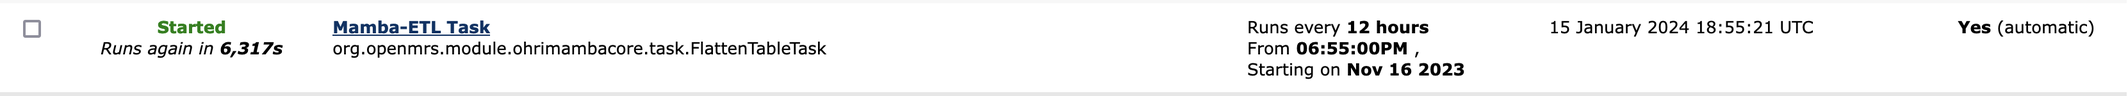
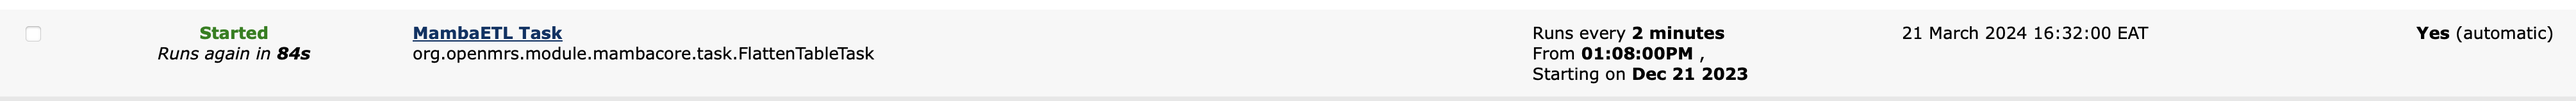
Update db configs and readme plus cleanups

diff --git a/api/src/main/java/org/openmrs/module/mambacore/db/ConnectionPoolManager.java b/api/src/main/java/org/openmrs/module/mambacore/db/ConnectionPoolManager.java
@@ -11,18 +11,35 @@ package org.openmrs.module.mambacore.db;
 
 import org.apache.commons.dbcp2.BasicDataSource;
 import org.openmrs.api.context.Context;
+import org.slf4j.Logger;
+import org.slf4j.LoggerFactory;
+
+import java.util.Properties;
 
 public class ConnectionPoolManager {
+	
+	private static final Logger log = LoggerFactory.getLogger(ConnectionPoolManager.class);
 	
 	private static ConnectionPoolManager instance = null;
 	
 	private static final BasicDataSource dataSource = new BasicDataSource();
 	
 	private ConnectionPoolManager() {
-		dataSource.setDriverClassName(Context.getAdministrationService().getGlobalProperty("mambaetl.analysis.db.driver"));
-		dataSource.setUrl(Context.getAdministrationService().getGlobalProperty("mambaetl.analysis.db.url"));
-		dataSource.setUsername(Context.getAdministrationService().getGlobalProperty("mambaetl.analysis.db.username"));
-		dataSource.setPassword(Context.getAdministrationService().getGlobalProperty("mambaetl.analysis.db.password"));
+		Properties omrsRuntimeProperties = Context.getRuntimeProperties();
+		
+		System.out.println("mambaetl.analysis.db.driver  : "
+		        + omrsRuntimeProperties.getProperty("mambaetl.analysis.db.driver"));
+		System.out
+		        .println("mambaetl.analysis.db.url     : " + omrsRuntimeProperties.getProperty("mambaetl.analysis.db.url"));
+		System.out.println("mambaetl.analysis.db.username: "
+		        + omrsRuntimeProperties.getProperty("mambaetl.analysis.db.username"));
+		System.out.println("mambaetl.analysis.db.password: "
+		        + omrsRuntimeProperties.getProperty("mambaetl.analysis.db.password"));
+		
+		dataSource.setDriverClassName(omrsRuntimeProperties.getProperty("mambaetl.analysis.db.driver"));
+		dataSource.setUrl(omrsRuntimeProperties.getProperty("mambaetl.analysis.db.url"));
+		dataSource.setUsername(omrsRuntimeProperties.getProperty("mambaetl.analysis.db.username"));
+		dataSource.setPassword(omrsRuntimeProperties.getProperty("mambaetl.analysis.db.password"));
 		dataSource.setInitialSize(4); // Initial number of connections
 		dataSource.setMaxTotal(20); // Maximum number of connections
 	}

diff --git a/api/src/test/java/org/openmrs/module/mambacore/api/model/MambaReportItemColumnTest.java b/api/src/test/java/org/openmrs/module/mambacore/api/model/MambaReportItemColumnTest.java
@@ -1,9 +1,19 @@
+/**
+ * This Source Code Form is subject to the terms of the Mozilla Public License,
+ * v. 2.0. If a copy of the MPL was not distributed with this file, You can
+ * obtain one at http://mozilla.org/MPL/2.0/. OpenMRS is also distributed under
+ * the terms of the Healthcare Disclaimer located at http://openmrs.org/license.
+ * <p>
+ * Copyright (C) OpenMRS Inc. OpenMRS is a registered trademark and the OpenMRS
+ * graphic logo is a trademark of OpenMRS Inc.
+ */
 package org.openmrs.module.mambacore.api.model;
 
 import org.junit.Before;
 import org.junit.Test;
 
-import static org.junit.Assert.*;
+import static org.junit.Assert.assertEquals;
+import static org.junit.Assert.assertNull;
 
 public class MambaReportItemColumnTest {
 

diff --git a/omod/src/main/java/org/openmrs/module/mambacore/web/resource/MambaReportResource.java b/omod/src/main/java/org/openmrs/module/mambacore/web/resource/MambaReportResource.java
@@ -30,7 +30,7 @@ import java.util.List;
 
 @Resource(name = RestConstants.VERSION_1 + MambaReportRestController.MAMBA_REPORT_REST_NAMESPACE + "/report",
         supportedClass = MambaReportItem.class,
-        supportedOpenmrsVersions = {"2.0 - 2.*"})
+        supportedOpenmrsVersions = {"2.0 - 9.*"})
 public class MambaReportResource implements Searchable {
 
     private static final Logger log = LoggerFactory.getLogger(MambaReportResource.class);

diff --git a/api/src/test/java/org/openmrs/module/mambacore/api/parameter/MambaReportCriteriaTest.java b/api/src/test/java/org/openmrs/module/mambacore/api/parameter/MambaReportCriteriaTest.java
@@ -15,7 +15,11 @@ import org.junit.Before;
 import java.util.Arrays;
 import java.util.List;
 
-import static org.junit.Assert.*;
+import static org.junit.Assert.assertEquals;
+import static org.junit.Assert.assertNotNull;
+import static org.junit.Assert.assertTrue;
+import static org.junit.Assert.assertNull;
+import static org.junit.Assert.assertFalse;
 
 public class MambaReportCriteriaTest {
 

diff --git a/api/src/test/java/org/openmrs/module/mambacore/api/model/MambaReportItemTest.java b/api/src/test/java/org/openmrs/module/mambacore/api/model/MambaReportItemTest.java
@@ -15,7 +15,10 @@ import org.junit.Test;
 import java.util.ArrayList;
 import java.util.List;
 
-import static org.junit.Assert.*;
+import static org.junit.Assert.assertEquals;
+import static org.junit.Assert.assertNotNull;
+import static org.junit.Assert.assertTrue;
+
 
 public class MambaReportItemTest {
 

diff --git a/api/src/test/java/org/openmrs/module/mambacore/api/model/MambaReportItemMetadataTest.java b/api/src/test/java/org/openmrs/module/mambacore/api/model/MambaReportItemMetadataTest.java
@@ -12,7 +12,8 @@ package org.openmrs.module.mambacore.api.model;
 import org.junit.Before;
 import org.junit.Test;
 
-import static org.junit.Assert.*;
+import static org.junit.Assert.assertEquals;
+import static org.junit.Assert.assertNull;
 
 public class MambaReportItemMetadataTest {
 

diff --git a/api/src/test/java/org/openmrs/module/mambacore/api/MambaReportsConstantsTest.java b/api/src/test/java/org/openmrs/module/mambacore/api/MambaReportsConstantsTest.java
@@ -11,7 +11,8 @@ package org.openmrs.module.mambacore.api;
 
 import org.junit.Test;
 
-import static org.junit.Assert.*;
+import static org.junit.Assert.assertEquals;
+import static org.junit.Assert.assertNotNull;
 
 public class MambaReportsConstantsTest {
 

diff --git a/README.md b/README.md
@@ -121,38 +121,20 @@ For Extra analysis on the data, one can opt to create dimension and fact tables 
 
 <span style='color: red;'>Step 7:</span>  
 
-`/omod/../resources/config.xml`  
+`.../<server_root_dir>/openmrs-runtime.properties`  
 
-Add the MambaETL database configuration default properties to the config xml file.  
-These properties can also be added via the legacy admin UI as global properties.  
+Add the MambaETL database configuration properties to your OpenMRs runtime properties file.  
+The property file name is: `openmrs-runtime.properties` and can be found under your server root folder.  
 
-MambaETL depends on this database configuration to connect to the **ETL** database for processing.  
+MambaETL depends on this database configuration details to connect to the **ETL** database for processing.  
 Note: the **ETL** database name is configured in the parent `pom.xml` file of your project. More on this file configurations later.
+Also make sure to escape any special characters when adding entries to the runtime properties.
 
-    <globalProperty>
-        <property>mambaetl.analysis.db.url</property>
-        <defaultValue>jdbc:mysql://db:3306/analysis_db?autoReconnect=true</defaultValue>
-        <description>MambaETL JDBC Connection string
-        </description>
-    </globalProperty>
-
-    <globalProperty>
-        <property>mambaetl.analysis.db.username</property>
-        <defaultValue>root</defaultValue>
-        <description>MambaETL username</description>
-    </globalProperty>
-   
-    <globalProperty>
-        <property>mambaetl.analysis.db.password</property>
-        <defaultValue>openmrs</defaultValue>
-        <description>MambaETL user password</description>
-    </globalProperty>
-   
-    <globalProperty>
-        <property>mambaetl.analysis.db.driver</property>
-        <defaultValue>com.mysql.jdbc.Driver</defaultValue>
-        <description>MambaETL JDBC driver</description>
-    </globalProperty>
+      #MambaETL related properties
+      mambaetl.analysis.db.driver=com.mysql.cj.jdbc.Driver
+      mambaetl.analysis.db.url=jdbc\:mysql\://localhost\:3306/analysis_db?useSSL\=false&autoReconnect\=true
+      mambaetl.analysis.db.username=mamba
+      mambaetl.analysis.db.password=7\#ehy65ed?
 
 The configured database user above must have super access to the **ETL** database to drop and create stored-procedures/views, functions, tables etc.  
 They also need select grant access to the transactional (openmrs) database.
@@ -263,6 +245,9 @@ Notably, don't forget to specify the names of your OpenMRS source database and t
       <!-- The target or analysis Database where the ETL data is stored -->
       <argument>-a analysis_db</argument>
 
+      <!-- Set the concepts locale name here -->
+      <argument>-l en</argument>
+
 
 <span style='color: red;'>Step 11:</span>
 
@@ -286,7 +271,8 @@ That's all you need to do to prepare your deployment scripts.
 
 Copy the OWA file to openmrs folder
 
-MambaETL will be scheduled to run automatically every 12 hours after deploying the scripts.
+MambaETL can be scheduled to run automatically every 12 hours after deploying the scripts.
+Schedulable Class name: `org.openmrs.module.mambacore.task.FlattenTableTask`
 
 ![Scheduler.png](_markdown%2FScheduler.png)
 
